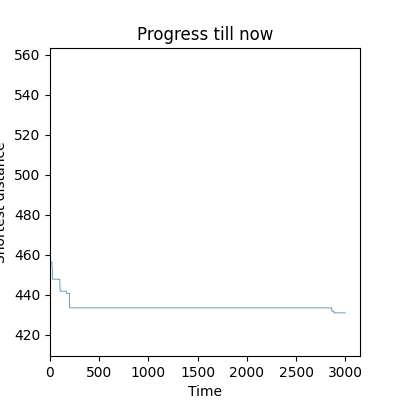
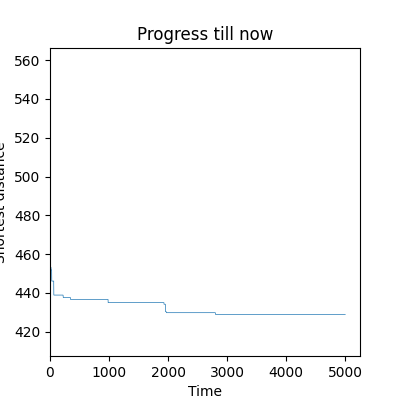
best 430 final

diff --git a/run.py b/run.py
@@ -17,7 +17,7 @@ try:
 
     best_distance = float("inf")
     best_route = []
-    for i in range(3000):
+    for i in range(5000):
         g.run()
         if g.best_distance < best_distance:
             best_distance = g.best_distance
